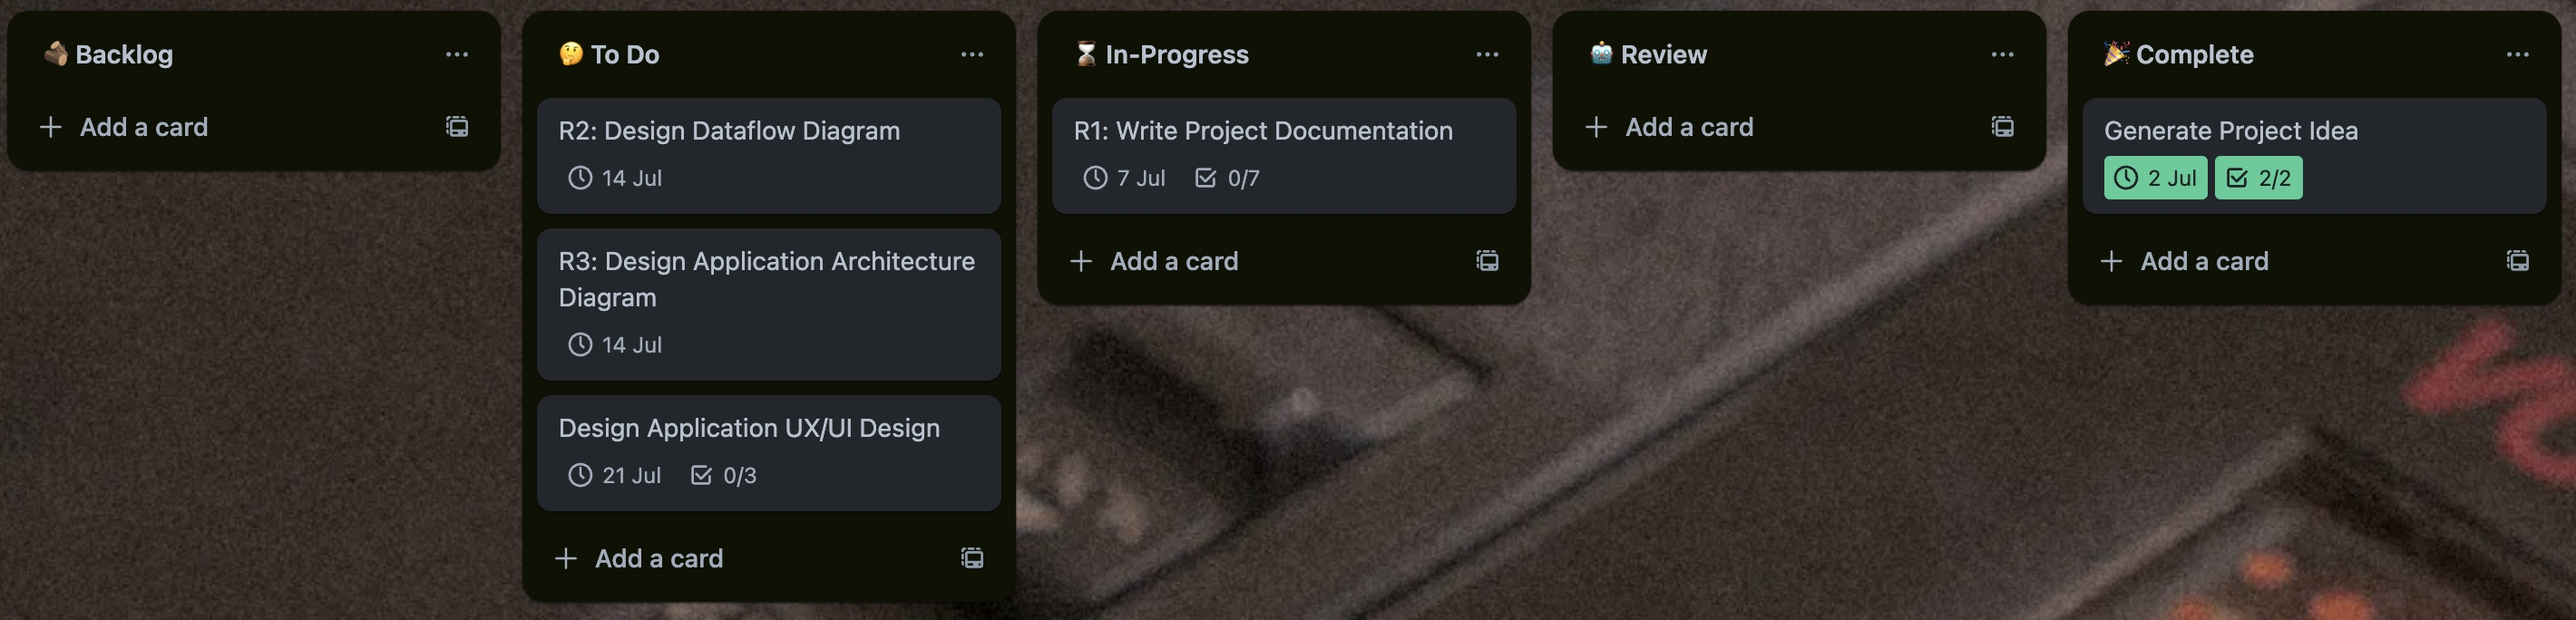
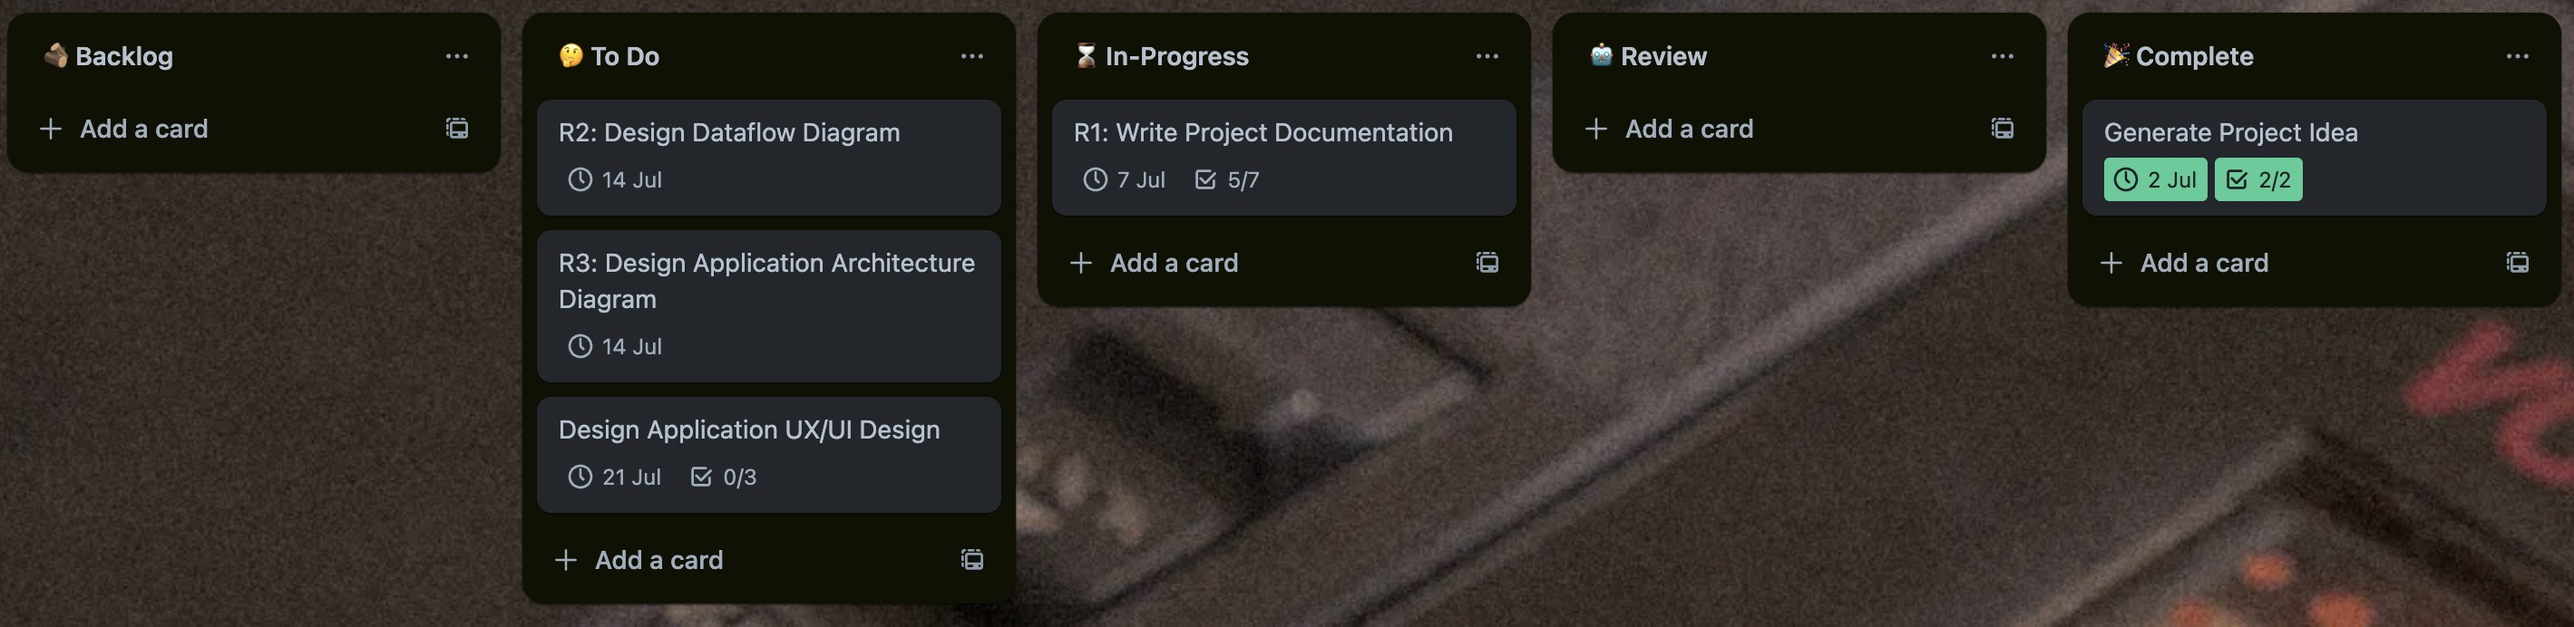
docs: Added personas, user stories and updated project development log

diff --git a/README.md b/README.md
@@ -4,7 +4,7 @@
   <a href="#💡-purpose">Purpose</a> •
   <a href="#⚙-functionality">Functionality</a> •
   <a href="#-target-audience">Target Audience</a> •
-  <a href="#-tech-stack">Target Audience</a> •
+  <a href="#-tech-stack">Tech Stack</a> •
   <a href="#-application-architecture-design">App Architecture Design</a> •
   <a href="#-dataflow-diagram">Dataflow Diagram</a> •
   <a href="#-project-development-log">Project Development Log</a> •
@@ -49,6 +49,13 @@ By providing a structured way to track and understand emotions, Memobanking aims
 
     People who are active on social media might enjoy the feature that allows them to share their emotional data publicly, adding a personal and reflective aspect to their online presence.
 
+### Personas & User Stories
+<img src="./docs/personas/persona_riley.excalidraw.png" width="800">
+
+<img src="./docs/personas/persona_mum.excalidraw.png" width="800">
+
+<img src="./docs/personas/persona_sadness.excalidraw.png" width="800">
+
 
 
 ## 📚 Tech Stack
@@ -73,7 +80,7 @@ By providing a structured way to track and understand emotions, Memobanking aims
 In this project, I have opted to use a Kanban workflow as my method of planning and tracking the development of my application. Each column represents a different phase of development. Cards flow from one column to the next as they progress towards completion. The workflow involves the following phases: Backlog, To-Do, In-Progress, Review and Completed.
 
 
-**04-07-2024:**
+#### 04-07-2024:
 
 <img src="./docs/kanban/04-07-2024.jpeg">
 
@@ -89,6 +96,14 @@ In this project, I have opted to use a Kanban workflow as my method of planning 
 
 <img src="./docs/checklists/design_uxui_design.png" width="500">
 
-**05-07-2024:**
+#### 05-07-2024:
 
 <img src="./docs/kanban/05-07-2024.jpeg">
+
+**Write Project Documentation Checklist:**
+
+<img src="./docs/checklists/write_project_documentation_v2.png" width="500">
+
+#### 07-07-2024:
+
+<img src="./docs/kanban/07-07-2024.png">
